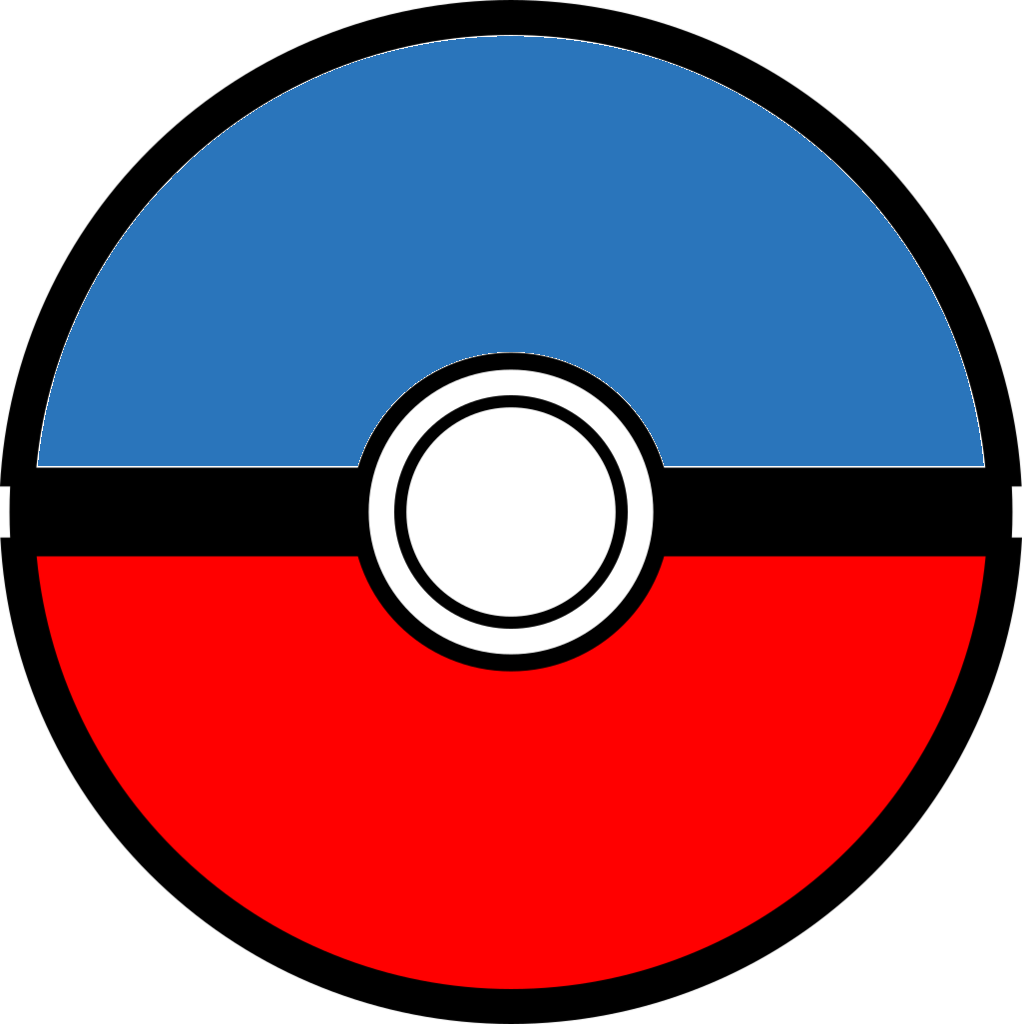
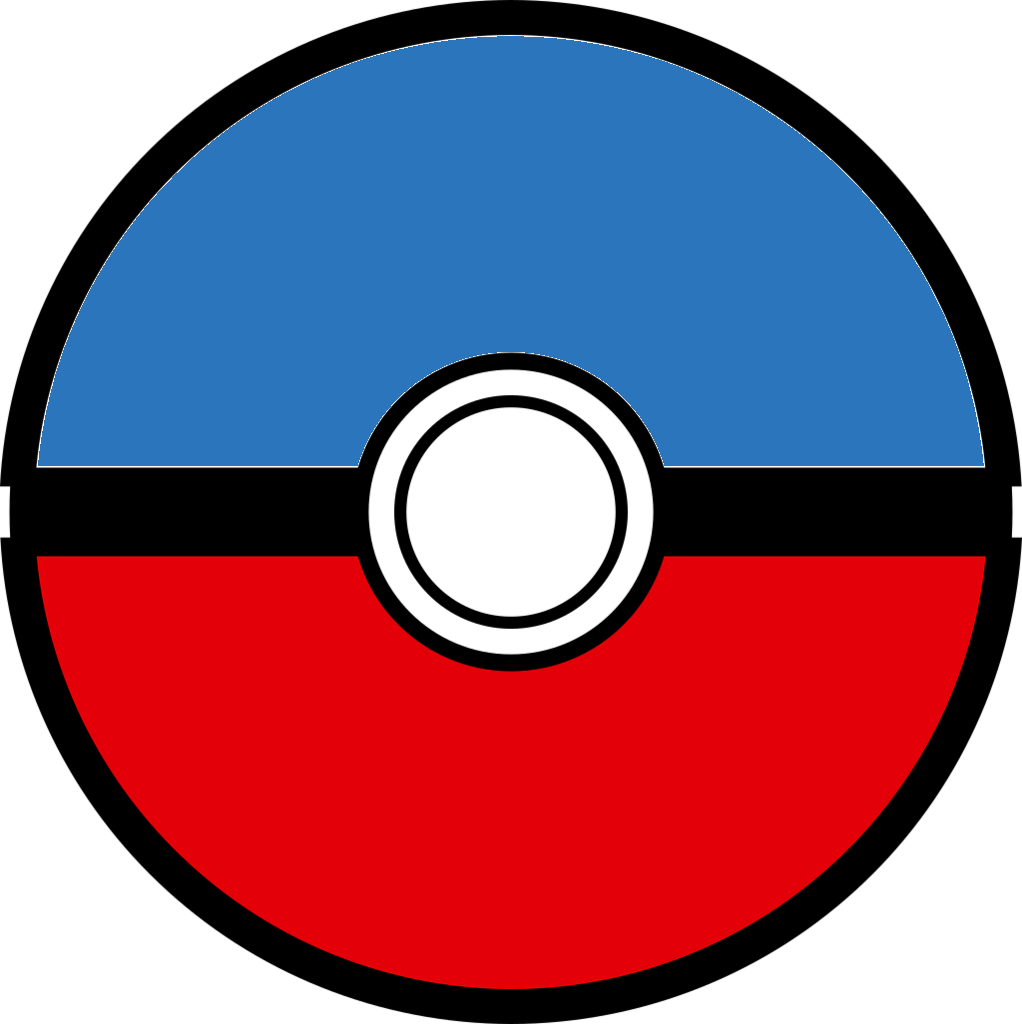
header final version

Changed region(s): [[0.0303, 0.5312, 0.9706, 0.9688]]

diff --git a/src/components/Header.js b/src/components/Header.js
@@ -1,14 +1,15 @@
 import styled from 'styled-components';
-import headerPokeballImg from '../assets/header-pokeball-image2.png';
+import headerPokeballImg from '../assets/header-pokeball-image.png';
 import headerLogo from '../assets/header-logo.png';
 import { LiItem } from './Utils.js/Utils';
-import { Icon } from './Utils.js/Icon';
+import Icon from './Utils.js/Icon';
 import routes from '../constants/routes.json';
+import { Link } from 'react-router-dom';
 
 const Header = () => {
   return (
     <HeaderWrapper>
-      <h1></h1>
+      {/* <Link to={routes.HOME} /> */}
       <LogoWrapper>
         <Logo src={headerLogo} />
         <LogoText>PoKéShoP</LogoText>
@@ -18,14 +19,10 @@ const Header = () => {
 
       <nav>
         <Ul>
-          <LiItem fontSize='1.75rem' color='rgb(228,0,8)' text='Home' />
-          <LiItem fontSize='1.75rem' color='rgb(42,117,187)' text='Shop' />
-          <LiItem
-            fontSize='1.75rem'
-            color='rgb(255, 203, 5) '
-            text='Contact Us'
-          />
-          <Icon className='fa-solid fa-cart-shopping' />
+          <LiItem fontSize='1.75rem' color='white' text='Home' />
+          <LiItem fontSize='1.75rem' color='white' text='Shop' />
+          <LiItem fontSize='1.75rem' color='white' text='Contact Us' />
+          <Icon className='fa-solid fa-bag-shopping' />
         </Ul>
       </nav>
     </HeaderWrapper>
@@ -37,37 +34,34 @@ const HeaderWrapper = styled.header`
   justify-content: space-between;
   align-items: center;
   height: 100px;
-  background-color: rgb(40, 40, 40);
+  background-color: rgb(228, 0, 8);
   border-bottom: 6.5px solid black;
 `;
 
 const LogoWrapper = styled.section`
   display: flex;
-  width: 600px;
+  flex-direction: column;
   align-items: center;
-  gap: 10px;
   margin-left: 50px;
-  transition: all ease-in-out 0.5s;
   cursor: pointer;
-
-  &:hover {
-    scale: 1.1;
-  }
 `;
 
 const Logo = styled.img`
-  height: 75px;
+  height: 60px;
 `;
 
 const LogoText = styled.p`
-  margin-top: 10px;
-  font-size: 1.75rem;
+  font-size: 1.5rem;
   color: white;
   font-family: 'Pokemon Solid';
 `;
 
 const PokeballImg = styled.img`
-  margin-top: 100px;
+  position: absolute;
+  left: 0;
+  right: 0;
+  margin: auto;
+  margin-top: 101px;
   height: 75px;
   transition: all ease-in-out 0.5s;
   cursor: pointer;
@@ -78,7 +72,7 @@ const PokeballImg = styled.img`
 
 const Ul = styled.ul`
   display: inline-flex;
-  width: 600px;
+  width: 450px;
   justify-content: space-between;
   align-items: center;
   gap: 25px;
@@ -87,3 +81,6 @@ const Ul = styled.ul`
 `;
 
 export default Header;
+
+// rgb(42,117,187)
+// rgb(255, 203, 5)

diff --git a/src/components/Footer.js b/src/components/Footer.js
@@ -1,5 +1,5 @@
 import styled from 'styled-components';
-import { Icon } from './Utils.js/Icon';
+import Icon from './Utils.js/Icon';
 
 // Simple footer with github icon and link to my github page
 const Footer = () => {
@@ -7,7 +7,7 @@ const Footer = () => {
     <FooterWrapper>
       <a href='https://github.com/oguzhanmolu' target='_blank'>
         <Icon
-          style={{ color: 'rgb(40,40,40) ' }}
+          color='rgb(40,40,40)'
           className='fa-brands fa-github fa-bounce'
         ></Icon>
       </a>

diff --git a/src/components/Utils.js/Icon.js b/src/components/Utils.js/Icon.js
@@ -1,6 +1,10 @@
 import styled from 'styled-components';
 
-export const Icon = styled.i`
+const Icon = ({ color, className }) => {
+  return <IconItem style={{ color: color }} className={className} />;
+};
+
+const IconItem = styled.i`
   font-size: 2.5rem;
   color: white;
   transition: all ease-in-out 0.5s;
@@ -9,3 +13,5 @@ export const Icon = styled.i`
     scale: 1.25;
   }
 `;
+
+export default Icon;

diff --git a/src/components/Main.js b/src/components/Main.js
@@ -24,7 +24,7 @@ const Main = () => {
     pokemons.data.forEach((pokemon) => console.log(pokemon));
   };
   useEffect(() => {
-    fetchData();
+    // fetchData();
   }, []);
 
   return <MainWrapper></MainWrapper>;
